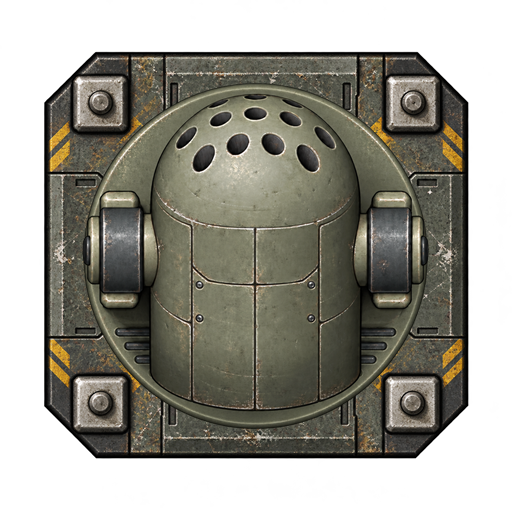
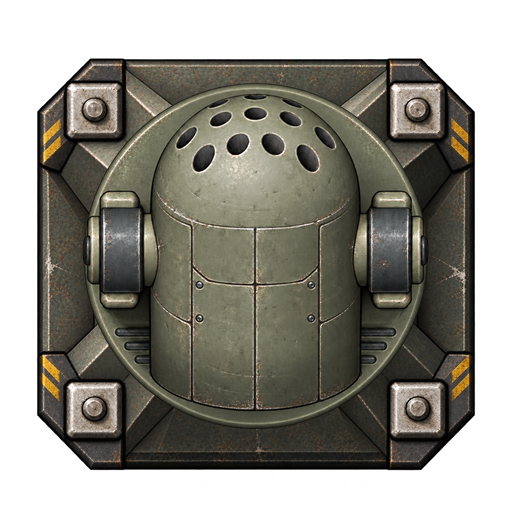
Add implied depth to the Locust tower pedestal

Changed region(s): [[0.0625, 0.0938, 0.9375, 0.9375]]

diff --git a/art-source/defences/locust-aa/README.md b/art-source/defences/locust-aa/README.md
@@ -13,9 +13,10 @@ Proximity Charge Launcher; those two art passes are still pending.
 - `locust-reskin-guide.png`: centered 1024-square overhead render of the approved
   Blender assembly. `render-reskin-guide.py` derives it from the retained
   `proposals/microphone-head/proposal.blend` without changing that scene.
-- `ground-base.master.png`: separate stationary foundation, up-resed from the
-  project's Ridgewatch base. This is new ground-emplacement art, not a vanilla
-  Locust layer.
+- `ground-base.master.png`: separate stationary tower derived from the project's
+  Ridgewatch base. A raised central crown, broad sloping wall faces, tapered
+  corner supports and dark lower foot imply height in the overhead view.
+  This is new ground-emplacement art, not a vanilla Locust layer.
 - `layers/locust-mount.png` and `layers/ground-base.png`: 512 x 512 RGBA exports,
   with registration pivots recorded in `export-metadata.json`. The mount includes the
   rotating gimbal floor; the ground base is a separate stationary foundation.
@@ -27,15 +28,23 @@ Proximity Charge Launcher; those two art passes are still pending.
 - `composite.png`: transparent 512-square tower/mount assembly at the shared
   center pivot. `composite-review.png` shows forward and 45-degree traverse
   views plus 256/192/128/64-pixel canvas studies at 1920 x 1080.
+- `depth-review.png`: 1920 x 1080 comparison of the earlier flat foundation and
+  the tower depth pass under the same approved turret; made by `depth-review.ps1`.
 - The two `*.prompt.txt` files preserve the exact built-in ImageGen prompts.
   The revised mount prompt uses the new circular-floor overhead guide and
   `sources/locust-square-platform.png`, the prior approved painted mount,
   as its material and unchanged-head reference. The guide owns the new floor
   silhouette; the retained art supplies the established finish and head details.
+  The tower prompt refines `sources/ground-base-depth-first-pass.png`, with
+  `sources/ground-base-flat.png` as the original outline reference. The first
+  pass and its exact prompt are retained in `sources/`; its second reference,
+  `ground-base-flat-composite.png`, shows the area concealed by the turret.
 
-The elongated head was already approved. The user requested a rounded rotating
-platform after reviewing it over the tower; its new painted finish remains for
-review. The circular floor has radius 1.02, thickness 0.22 and center Z 0.22
+The elongated head and rounded rotating platform are approved. The tower depth
+pass changes the stationary base only. Its broad wall planes and self-occlusion
+suggest a raised armored pedestal; no external ground shadow or camera tilt is
+baked into the sprite. This is implied height, not a measured tower height or
+runtime elevation. The circular floor has radius 1.02, thickness 0.22 and center Z 0.22
 (top Z 0.33). Rear cooling ribs taper inside its perimeter. Head dimensions,
 18 parallel launch bores, 20-degree displayed pitch, side cheeks, trunnions and
 axle height are fixed. The foundation remains a separate stationary layer.
@@ -56,6 +65,7 @@ From the repository root in PowerShell:
 ```powershell
 ./art-source/defences/locust-aa/export.ps1
 ./art-source/defences/locust-aa/composite.ps1
+./art-source/defences/locust-aa/depth-review.ps1
 ```
 
 To regenerate the input guide first:
@@ -71,13 +81,18 @@ writes `export-metadata.json` and the review sheet. The circular floor encloses
 the complete mount, so its visible bounds locate the painted yaw center at
 (256.5, 248.5) in the 512-square export. This compensates for ImageGen's small
 framing drift through draw-time registration, preserving every source pixel.
-The separate composite script aligns that pivot to the foundation's (256, 256)
-and rotates around it. It reads both masters and metadata beside itself and
+The tower bearing is visually registered at (256, 242), corresponding to about
+(627, 593) in its master; its raised crown is slightly above the frame center.
+The separate composite script aligns both pivots to the assembly's (256, 256)
+and rotates only the mount. It reads both masters and metadata beside itself and
 writes the assembly previews there without cropping or repainting either layer.
 Generated masters arrived
 at 1254 x 1254 despite the requested 1024 square canvas. The masters have faint
 alpha residue in some empty pixels; alpha is preserved, and the boundary
-check rejects alpha >= 8. Visible bounds are measured at alpha >= 32.
+check rejects alpha >= 8. Visible bounds are measured at alpha >= 32. The new
+tower preserves the octagonal design, though generated perimeter bounds differ
+slightly from the flat source; full frames are retained rather than distorted
+to force a pixel-exact outline.
 
 ## Source provenance and remaining family
 
